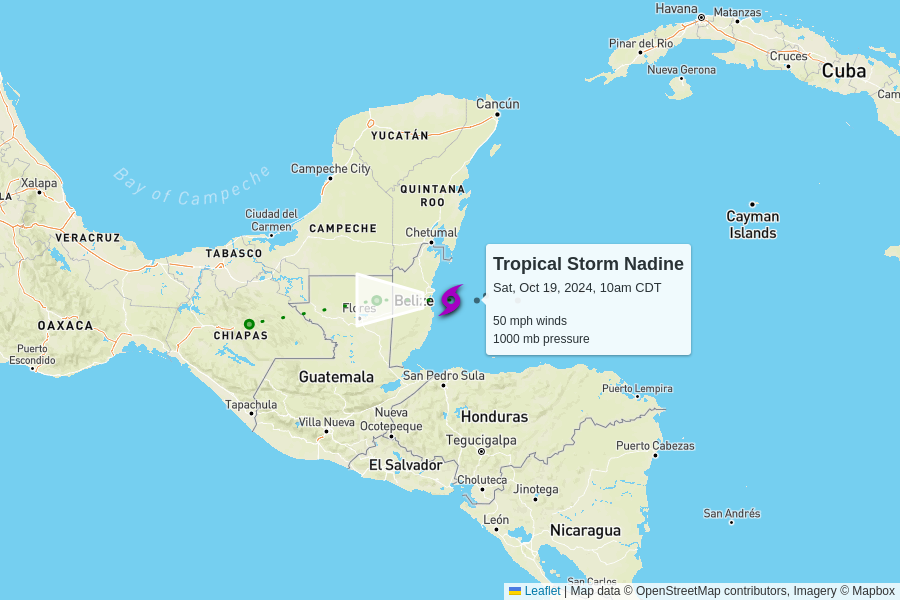
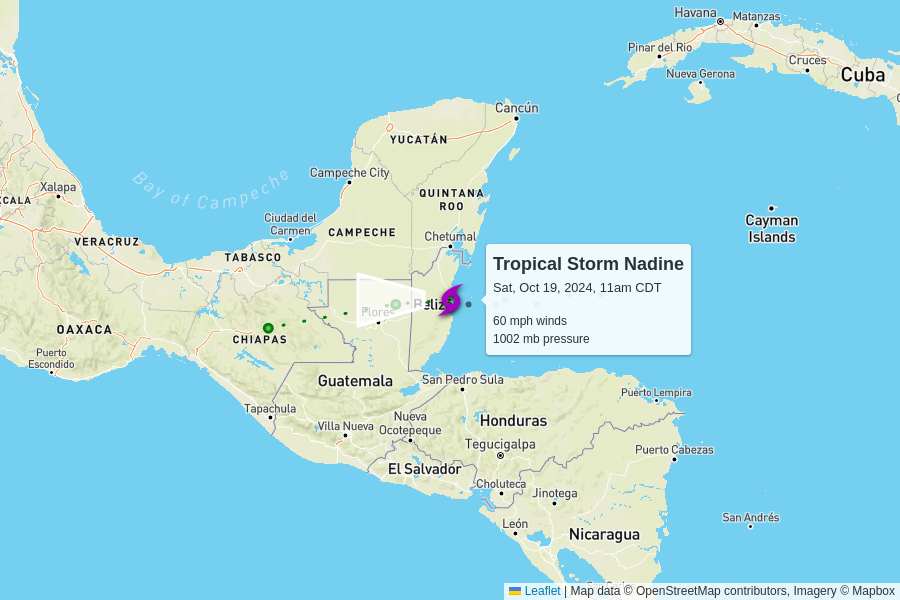
automatic update

diff --git a/docs/index.html b/docs/index.html
@@ -104,7 +104,7 @@
         <td colspan="6" class="storm category-0" >
           <h2>
             Tropical Storm Nadine
-            <p class="updated">last updated <span data-time>2024-10-19T15:00:00.000Z</span></p>
+            <p class="updated">last updated <span data-time>2024-10-19T16:00:00.000Z</span></p>
           </h2>
         </td>
       </tr>
@@ -119,8 +119,8 @@
       </tr>
       <tr>
         <td class="spacer"></td>
-        <td>50 mph<br>+5 mph since last update</td>
-        <td>1000 mb<br>-2 mb since last update</td>
+        <td>60 mph<br>+10 mph since last update</td>
+        <td>1002 mb<br>+2 mb since last update</td>
         <td>
           8 mph to the west
           <br/>
